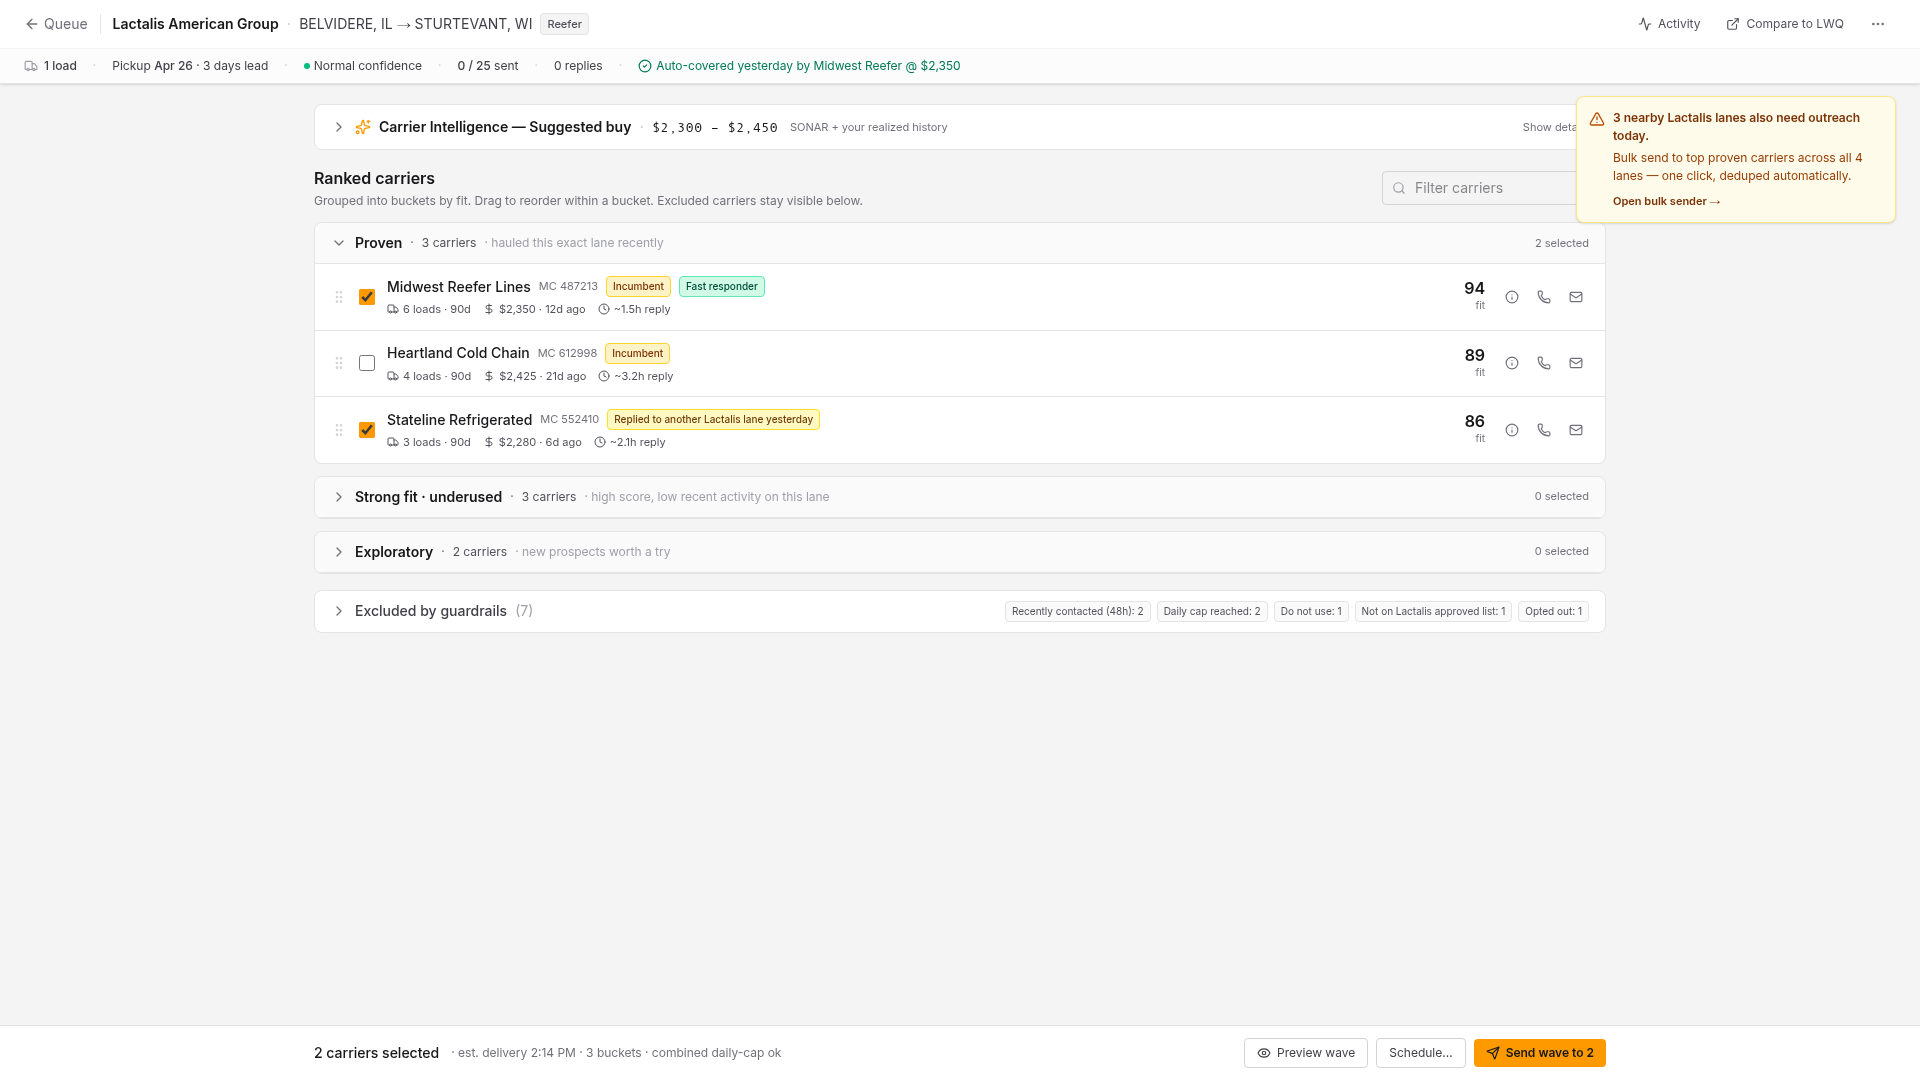
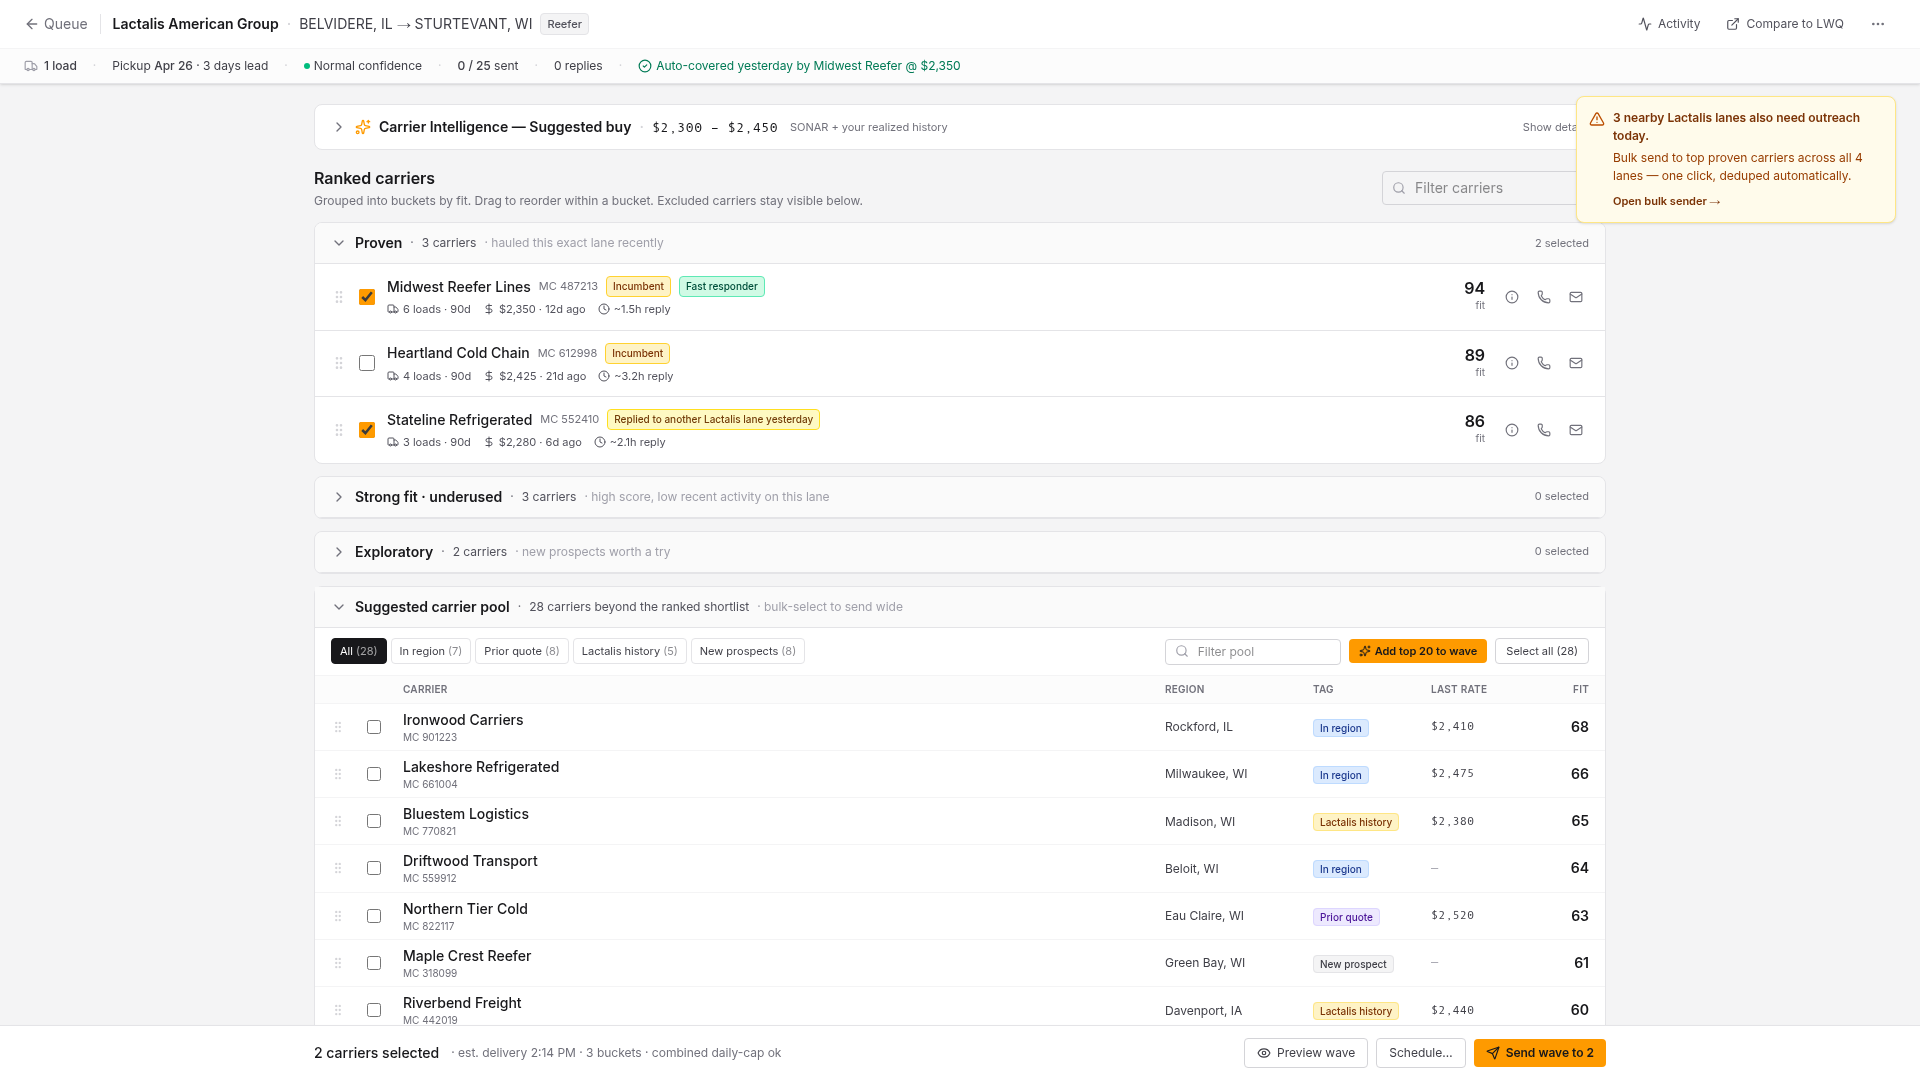
Add a suggested carrier pool for broader freight distribution
Introduces a `Pool` type and `POOL` data array to `Redesign.tsx` for suggested carriers, and updates the component's JSX to display this new section. A new screenshot has also been generated.

Replit-Commit-Author: Agent
Replit-Commit-Session-Id: 33cec22d-13d0-4404-962e-b02b916272d9
Replit-Commit-Checkpoint-Type: full_checkpoint
Replit-Commit-Event-Id: 0dfeca88-6780-4abc-8378-f547308f8bf0
Replit-Commit-Screenshot-Url: https://storage.googleapis.com/screenshot-production-us-central1/842f437b-28f3-4ca3-ae76-eed351b0b506/33cec22d-13d0-4404-962e-b02b916272d9/ltOX2UK
Replit-Helium-Checkpoint-Created: true

diff --git a/artifacts/mockup-sandbox/src/components/mockups/freight-detail-redesign/Redesign.tsx b/artifacts/mockup-sandbox/src/components/mockups/freight-detail-redesign/Redesign.tsx
@@ -222,6 +222,54 @@ const EXPLORATORY: Carrier[] = [
   },
 ];
 
+type Pool = {
+  id: string;
+  name: string;
+  mc: string;
+  region: string;
+  fitScore: number;
+  lastRate: number | null;
+  tag: "in_region" | "prior_quote" | "new_prospect" | "lactalis_history";
+};
+
+const POOL: Pool[] = [
+  { id: "p1",  name: "Ironwood Carriers",         mc: "MC 901223", region: "Rockford, IL",   fitScore: 68, lastRate: 2410, tag: "in_region" },
+  { id: "p2",  name: "Lakeshore Refrigerated",    mc: "MC 661004", region: "Milwaukee, WI",  fitScore: 66, lastRate: 2475, tag: "in_region" },
+  { id: "p3",  name: "Bluestem Logistics",        mc: "MC 770821", region: "Madison, WI",    fitScore: 65, lastRate: 2380, tag: "lactalis_history" },
+  { id: "p4",  name: "Driftwood Transport",       mc: "MC 559912", region: "Beloit, WI",     fitScore: 64, lastRate: null, tag: "in_region" },
+  { id: "p5",  name: "Northern Tier Cold",        mc: "MC 822117", region: "Eau Claire, WI", fitScore: 63, lastRate: 2520, tag: "prior_quote" },
+  { id: "p6",  name: "Maple Crest Reefer",        mc: "MC 318099", region: "Green Bay, WI",  fitScore: 61, lastRate: null, tag: "new_prospect" },
+  { id: "p7",  name: "Riverbend Freight",         mc: "MC 442019", region: "Davenport, IA",  fitScore: 60, lastRate: 2440, tag: "lactalis_history" },
+  { id: "p8",  name: "Copperline Logistics",      mc: "MC 720113", region: "Dubuque, IA",    fitScore: 60, lastRate: null, tag: "new_prospect" },
+  { id: "p9",  name: "Pinewood Reefer Co.",       mc: "MC 615008", region: "Wausau, WI",     fitScore: 59, lastRate: 2490, tag: "prior_quote" },
+  { id: "p10", name: "Silver Birch Trucking",     mc: "MC 833402", region: "Janesville, WI", fitScore: 58, lastRate: null, tag: "in_region" },
+  { id: "p11", name: "Cedar Valley Cold",         mc: "MC 119083", region: "Cedar Rapids, IA", fitScore: 58, lastRate: 2350, tag: "lactalis_history" },
+  { id: "p12", name: "Lakefront Carriers",        mc: "MC 442990", region: "Kenosha, WI",    fitScore: 57, lastRate: null, tag: "in_region" },
+  { id: "p13", name: "Granite State Reefer",      mc: "MC 902441", region: "Quincy, IL",     fitScore: 56, lastRate: 2460, tag: "prior_quote" },
+  { id: "p14", name: "Heartland Express LLC",     mc: "MC 199002", region: "Bloomington, IL", fitScore: 55, lastRate: null, tag: "new_prospect" },
+  { id: "p15", name: "Cold Country Freight",      mc: "MC 700128", region: "Rochester, MN",  fitScore: 55, lastRate: 2530, tag: "prior_quote" },
+  { id: "p16", name: "Frostline Logistics",       mc: "MC 882015", region: "Aurora, IL",     fitScore: 54, lastRate: null, tag: "new_prospect" },
+  { id: "p17", name: "TimberCreek Transport",     mc: "MC 540118", region: "Appleton, WI",   fitScore: 53, lastRate: 2400, tag: "lactalis_history" },
+  { id: "p18", name: "BlueRidge Cold Chain",      mc: "MC 660091", region: "Joliet, IL",     fitScore: 52, lastRate: null, tag: "in_region" },
+  { id: "p19", name: "Summit Reefer Group",       mc: "MC 220841", region: "Naperville, IL", fitScore: 52, lastRate: 2380, tag: "prior_quote" },
+  { id: "p20", name: "OakStream Trucking",        mc: "MC 718800", region: "Decatur, IL",    fitScore: 51, lastRate: null, tag: "new_prospect" },
+  { id: "p21", name: "Glacier Run Carriers",      mc: "MC 990013", region: "St. Paul, MN",   fitScore: 50, lastRate: 2510, tag: "prior_quote" },
+  { id: "p22", name: "Crystal Lake Freight",      mc: "MC 314009", region: "Crystal Lake, IL", fitScore: 50, lastRate: null, tag: "in_region" },
+  { id: "p23", name: "ColdSpring Lines",          mc: "MC 660442", region: "Sheboygan, WI",  fitScore: 49, lastRate: null, tag: "new_prospect" },
+  { id: "p24", name: "Northwind Refrigerated",    mc: "MC 199771", region: "Duluth, MN",     fitScore: 48, lastRate: 2580, tag: "prior_quote" },
+  { id: "p25", name: "Ironclad Cold Chain",       mc: "MC 552008", region: "Peoria, IL",     fitScore: 48, lastRate: null, tag: "lactalis_history" },
+  { id: "p26", name: "Whitewater Reefer",         mc: "MC 880113", region: "Whitewater, WI", fitScore: 47, lastRate: null, tag: "new_prospect" },
+  { id: "p27", name: "Cobblestone Logistics",     mc: "MC 460221", region: "Waukegan, IL",   fitScore: 46, lastRate: 2430, tag: "prior_quote" },
+  { id: "p28", name: "Aurora Reefer Lines",       mc: "MC 318877", region: "Schaumburg, IL", fitScore: 45, lastRate: null, tag: "new_prospect" },
+];
+
+const POOL_TAG_LABEL: Record<Pool["tag"], { label: string; cls: string }> = {
+  in_region:        { label: "In region",          cls: "bg-blue-100 text-blue-900 border-blue-200" },
+  prior_quote:      { label: "Prior quote",        cls: "bg-violet-100 text-violet-900 border-violet-200" },
+  new_prospect:     { label: "New prospect",       cls: "bg-zinc-100 text-zinc-700 border-zinc-200" },
+  lactalis_history: { label: "Lactalis history",   cls: "bg-amber-100 text-amber-900 border-amber-200" },
+};
+
 const EXCLUDED: Excluded[] = [
   { id: "e1", name: "FreshHaul Trucking", reason: "recent_contact" },
   { id: "e2", name: "Coldline Express", reason: "recent_contact" },
@@ -427,6 +475,173 @@ function BucketSection({
   );
 }
 
+function SuggestedPool({
+  selected,
+  onToggle,
+  onSelectAll,
+  onSelectTopN,
+  onClear,
+}: {
+  selected: Set<string>;
+  onToggle: (id: string) => void;
+  onSelectAll: (ids: string[]) => void;
+  onSelectTopN: (n: number) => void;
+  onClear: (ids: string[]) => void;
+}) {
+  const [open, setOpen] = useState(true);
+  const [filter, setFilter] = useState<"all" | Pool["tag"]>("all");
+  const [search, setSearch] = useState("");
+
+  const filtered = POOL.filter((p) => {
+    if (filter !== "all" && p.tag !== filter) return false;
+    if (search && !p.name.toLowerCase().includes(search.toLowerCase()) && !p.region.toLowerCase().includes(search.toLowerCase())) return false;
+    return true;
+  });
+
+  const filteredIds = filtered.map((p) => p.id);
+  const selectedInFiltered = filteredIds.filter((id) => selected.has(id)).length;
+  const allFilteredSelected = filteredIds.length > 0 && selectedInFiltered === filteredIds.length;
+
+  const counts = {
+    all: POOL.length,
+    in_region: POOL.filter((p) => p.tag === "in_region").length,
+    prior_quote: POOL.filter((p) => p.tag === "prior_quote").length,
+    new_prospect: POOL.filter((p) => p.tag === "new_prospect").length,
+    lactalis_history: POOL.filter((p) => p.tag === "lactalis_history").length,
+  };
+
+  return (
+    <div className="border border-zinc-200 rounded-lg bg-white overflow-hidden">
+      <button
+        onClick={() => setOpen((v) => !v)}
+        className="w-full flex items-center justify-between px-4 py-2.5 bg-zinc-50 hover:bg-zinc-100 border-b border-zinc-200"
+      >
+        <div className="flex items-center gap-2">
+          {open ? <ChevronDown className="h-4 w-4 text-zinc-500" /> : <ChevronRight className="h-4 w-4 text-zinc-500" />}
+          <span className="text-sm font-semibold text-zinc-900">Suggested carrier pool</span>
+          <span className="text-xs text-zinc-500">·</span>
+          <span className="text-xs text-zinc-600">{POOL.length} carriers beyond the ranked shortlist</span>
+          <span className="text-xs text-zinc-400 hidden md:inline">· bulk-select to send wide</span>
+        </div>
+        <span className="text-[11px] text-zinc-500">
+          {selected.size > 0 && [...selected].some((id) => POOL.some((p) => p.id === id))
+            ? `${[...selected].filter((id) => POOL.some((p) => p.id === id)).length} selected from pool`
+            : ""}
+        </span>
+      </button>
+
+      {open && (
+        <>
+          {/* Toolbar */}
+          <div className="px-4 py-2.5 border-b border-zinc-100 flex items-center gap-2 flex-wrap bg-white">
+            <div className="flex items-center gap-1">
+              {([
+                ["all", "All"],
+                ["in_region", "In region"],
+                ["prior_quote", "Prior quote"],
+                ["lactalis_history", "Lactalis history"],
+                ["new_prospect", "New prospects"],
+              ] as const).map(([k, label]) => (
+                <button
+                  key={k}
+                  onClick={() => setFilter(k)}
+                  className={`text-[11px] px-2 py-1 rounded border ${
+                    filter === k
+                      ? "bg-zinc-900 border-zinc-900 text-white"
+                      : "bg-white border-zinc-200 text-zinc-700 hover:bg-zinc-50"
+                  }`}
+                >
+                  {label} <span className="opacity-60">({counts[k]})</span>
+                </button>
+              ))}
+            </div>
+            <div className="relative ml-auto">
+              <Search className="h-3.5 w-3.5 absolute left-2.5 top-1/2 -translate-y-1/2 text-zinc-400" />
+              <input
+                value={search}
+                onChange={(e) => setSearch(e.target.value)}
+                placeholder="Filter pool"
+                className="pl-8 pr-3 py-1 border border-zinc-300 rounded text-xs w-44"
+              />
+            </div>
+            <button
+              onClick={() => onSelectTopN(20)}
+              className="text-[11px] px-2.5 py-1 rounded bg-amber-500 text-zinc-900 font-semibold hover:bg-amber-400 inline-flex items-center gap-1"
+            >
+              <Sparkles className="h-3 w-3" /> Add top 20 to wave
+            </button>
+            <button
+              onClick={() => (allFilteredSelected ? onClear(filteredIds) : onSelectAll(filteredIds))}
+              className="text-[11px] px-2.5 py-1 rounded border border-zinc-300 text-zinc-700 hover:bg-zinc-50"
+            >
+              {allFilteredSelected ? "Clear" : "Select all"} ({filtered.length})
+            </button>
+          </div>
+
+          {/* Header row */}
+          <div className="grid grid-cols-[28px_28px_1fr_140px_110px_90px_60px] items-center gap-2 px-4 py-1.5 text-[10px] uppercase tracking-wide text-zinc-500 font-semibold border-b border-zinc-100 bg-zinc-50/60">
+            <div />
+            <div />
+            <div>Carrier</div>
+            <div>Region</div>
+            <div>Tag</div>
+            <div>Last rate</div>
+            <div className="text-right">Fit</div>
+          </div>
+
+          {/* Rows */}
+          <div className="max-h-[420px] overflow-y-auto">
+            {filtered.map((p) => {
+              const sel = selected.has(p.id);
+              const tag = POOL_TAG_LABEL[p.tag];
+              return (
+                <div
+                  key={p.id}
+                  className={`grid grid-cols-[28px_28px_1fr_140px_110px_90px_60px] items-center gap-2 px-4 py-1.5 border-b border-zinc-100 last:border-b-0 text-sm hover:bg-zinc-50 ${
+                    sel ? "bg-amber-50/40" : ""
+                  }`}
+                >
+                  <GripVertical className="h-3.5 w-3.5 text-zinc-300 cursor-grab" />
+                  <input
+                    type="checkbox"
+                    className="h-3.5 w-3.5 rounded border-zinc-300 accent-amber-500"
+                    checked={sel}
+                    onChange={() => onToggle(p.id)}
+                  />
+                  <div className="min-w-0">
+                    <div className="font-medium text-zinc-900 truncate">{p.name}</div>
+                    <div className="text-[10px] text-zinc-500">{p.mc}</div>
+                  </div>
+                  <div className="text-[12px] text-zinc-700 truncate">{p.region}</div>
+                  <div>
+                    <span className={`text-[10px] px-1.5 py-0.5 rounded border font-medium ${tag.cls}`}>{tag.label}</span>
+                  </div>
+                  <div className="text-[12px] text-zinc-700 font-mono">
+                    {p.lastRate ? `$${p.lastRate.toLocaleString()}` : <span className="text-zinc-400">—</span>}
+                  </div>
+                  <div className="text-right text-sm font-semibold text-zinc-900">{p.fitScore}</div>
+                </div>
+              );
+            })}
+            {filtered.length === 0 && (
+              <div className="px-4 py-6 text-center text-xs text-zinc-500">No carriers match your filter.</div>
+            )}
+          </div>
+
+          {/* Footer hint */}
+          <div className="px-4 py-2 border-t border-zinc-100 bg-zinc-50/60 text-[11px] text-zinc-600 flex items-center justify-between">
+            <span>
+              Pool ranks below the curated shortlist. Use this to cast a wider net (20–30 carriers) when capacity is tight or
+              when proven carriers haven't replied.
+            </span>
+            <span className="text-zinc-400">Daily-cap & guardrails still apply at send time.</span>
+          </div>
+        </>
+      )}
+    </div>
+  );
+}
+
 export function Redesign() {
   const [selected, setSelected] = useState<Set<string>>(new Set(["c1", "c3"]));
   const [intelOpen, setIntelOpen] = useState(false);
@@ -441,6 +656,19 @@ export function Redesign() {
       return n;
     });
   };
+  const selectIds = (ids: string[]) =>
+    setSelected((s) => {
+      const n = new Set(s);
+      ids.forEach((id) => n.add(id));
+      return n;
+    });
+  const clearIds = (ids: string[]) =>
+    setSelected((s) => {
+      const n = new Set(s);
+      ids.forEach((id) => n.delete(id));
+      return n;
+    });
+  const selectTopN = (n: number) => selectIds(POOL.slice(0, n).map((p) => p.id));
 
   const allEligible = [...PROVEN, ...STRONG, ...EXPLORATORY];
   const totalSelected = selected.size;
@@ -591,6 +819,15 @@ export function Redesign() {
             carriers={EXPLORATORY}
             selected={selected}
             onToggle={toggle}
+          />
+
+          {/* ── SUGGESTED CARRIER POOL ─────────────────────────────────── */}
+          <SuggestedPool
+            selected={selected}
+            onToggle={toggle}
+            onSelectAll={selectIds}
+            onSelectTopN={selectTopN}
+            onClear={clearIds}
           />
         </div>
 